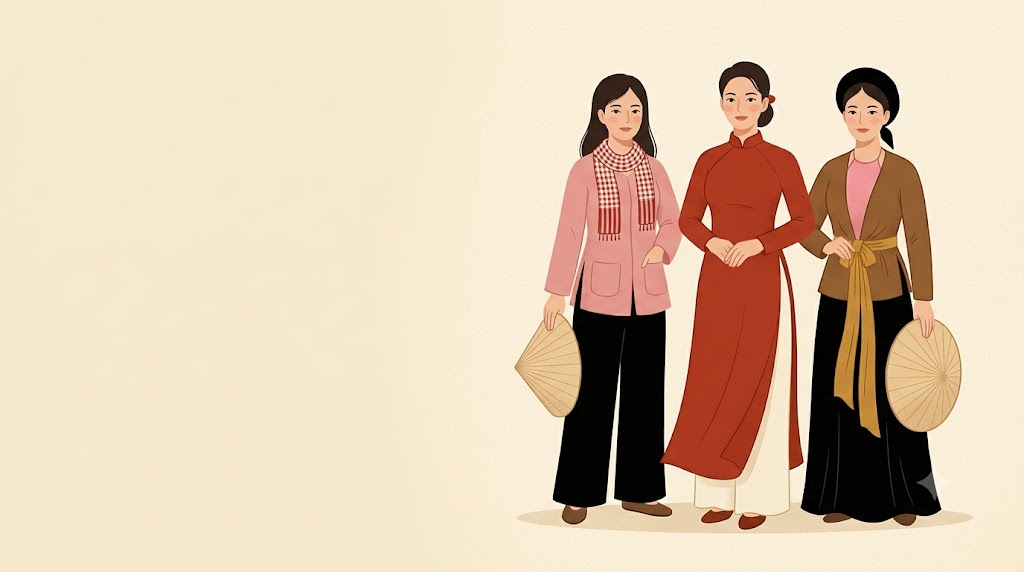
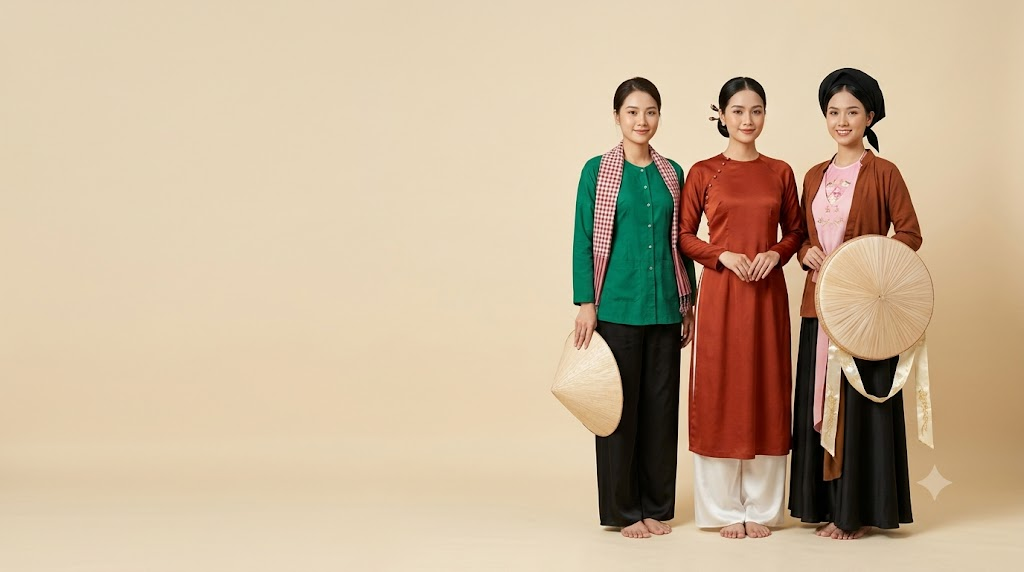
Hoan thien feature phoi-do

diff --git a/components/phoi-do/GioiThieuVanHoa.tsx b/components/phoi-do/GioiThieuVanHoa.tsx
@@ -1,0 +1,142 @@
+'use client';
+
+import { useEffect, useState } from 'react';
+
+interface MucNoiDung {
+  id: string;
+  tieuDe: string;
+  noiDung: string;
+  nguonThamKhao: string | null;
+}
+
+interface Props {
+  trangPhucId: string;
+  tenTrangPhuc: string;
+  vungMien?: string | null;
+}
+
+/** Ảnh minh hoạ từng trang phục, đặt trong public/images/trang-phuc/ (xem phần 3). */
+const ANH_TRANG_PHUC: Record<string, string> = {
+  'Áo dài': '/images/trang-phuc/ao-dai.jpg',
+  'Áo tứ thân': '/images/trang-phuc/ao-tu-than.jpg',
+  'Áo bà ba': '/images/trang-phuc/ao-ba-ba.jpg',
+};
+
+/** Bộ nhớ tạm: đã tải của trang phục nào thì không gọi lại. */
+const boNho = new Map<string, MucNoiDung[]>();
+
+/** Thứ tự hiển thị: Nguồn gốc → đặc điểm/cấu tạo → ý nghĩa. */
+function thuTu(tieuDe: string): number {
+  const t = tieuDe.normalize('NFC').toLowerCase();
+  if (t.includes('nguồn gốc')) return 0;
+  if (t.includes('ý nghĩa')) return 2;
+  return 1;
+}
+
+export default function GioiThieuVanHoa({ trangPhucId, tenTrangPhuc, vungMien }: Props) {
+  const [, veLai] = useState(0);
+  const [loiId, setLoiId] = useState<string | null>(null);
+  // undefined = mặc định mở mục đầu; null = đóng hết; chuỗi = id mục đang mở.
+  const [moId, setMoId] = useState<string | null | undefined>(undefined);
+  const [anhLoi, setAnhLoi] = useState(false);
+
+  const danhSach = boNho.get(trangPhucId) ?? null;
+
+  useEffect(() => {
+    if (boNho.has(trangPhucId)) return;
+    let huy = false;
+
+    fetch(`/api/noi-dung-van-hoa?trangPhucId=${encodeURIComponent(trangPhucId)}`)
+      .then(async (res) => {
+        const body = await res.json();
+        if (!res.ok) throw new Error(body.error ?? `Lỗi ${res.status}`);
+        return body.data as MucNoiDung[];
+      })
+      .then((ds) => {
+        boNho.set(
+          trangPhucId,
+          [...ds].sort((a, b) => thuTu(a.tieuDe) - thuTu(b.tieuDe)),
+        );
+        if (!huy) veLai((n) => n + 1);
+      })
+      .catch(() => {
+        if (!huy) setLoiId(trangPhucId);
+      });
+
+    return () => {
+      huy = true;
+    };
+  }, [trangPhucId]);
+
+  const anh = ANH_TRANG_PHUC[tenTrangPhuc.normalize('NFC').trim()];
+  const dangMo = moId === undefined ? (danhSach?.[0]?.id ?? null) : moId;
+
+  return (
+    <section className="overflow-hidden rounded-md border border-ink-soft/15 bg-paper-raised" aria-live="polite">
+      {anh && !anhLoi && (
+        // eslint-disable-next-line @next/next/no-img-element
+        <img
+          src={anh}
+          alt={`Hình minh hoạ ${tenTrangPhuc}`}
+          onError={() => setAnhLoi(true)}
+          className="h-64 w-full bg-paper object-contain"
+        />
+      )}
+
+      <div className="p-3">
+        <p className="text-[11px] uppercase tracking-wide text-ink-soft">
+          Tìm hiểu trang phục{vungMien ? ` · ${vungMien}` : ''}
+        </p>
+        <h3 className="font-display text-base font-semibold text-ink">{tenTrangPhuc}</h3>
+
+        <div className="mt-2">
+          {danhSach ? (
+            danhSach.length === 0 ? (
+              <p className="text-xs text-ink-soft">Chưa có nội dung văn hoá cho trang phục này.</p>
+            ) : (
+              danhSach.map((m) => {
+                const mo = dangMo === m.id;
+                return (
+                  <div key={m.id} className="border-t border-ink-soft/15 first:border-t-0">
+                    <button
+                      type="button"
+                      aria-expanded={mo}
+                      onClick={() => setMoId(mo ? null : m.id)}
+                      className="flex w-full items-center justify-between gap-2 py-2 text-left text-sm font-medium text-ink"
+                    >
+                      {m.tieuDe}
+                      <span
+                        aria-hidden
+                        className={`text-ink-soft transition-transform ${mo ? 'rotate-180' : ''}`}
+                      >
+                        ▾
+                      </span>
+                    </button>
+                    {mo && (
+                      <div className="pb-3">
+                        <p className="text-[13px] leading-relaxed text-ink">{m.noiDung}</p>
+                        {m.nguonThamKhao && (
+                          <p className="mt-2 text-[11px] italic text-ink-soft">Nguồn: {m.nguonThamKhao}</p>
+                        )}
+                      </div>
+                    )}
+                  </div>
+                );
+              })
+            )
+          ) : loiId === trangPhucId ? (
+            <p className="text-xs text-lacquer">
+              Chưa tải được nội dung văn hoá lúc này. Hãy thử chọn lại trang phục.
+            </p>
+          ) : (
+            <div className="space-y-2 py-1" aria-label="Đang tải">
+              <div className="h-3 w-3/4 animate-pulse rounded bg-ink/10" />
+              <div className="h-3 w-full animate-pulse rounded bg-ink/10" />
+              <div className="h-3 w-5/6 animate-pulse rounded bg-ink/10" />
+            </div>
+          )}
+        </div>
+      </div>
+    </section>
+  );
+}

diff --git a/components/phoi-do/ChonTrangPhuc.tsx b/components/phoi-do/ChonTrangPhuc.tsx
@@ -1,5 +1,6 @@
 'use client';
 
+import type { ReactNode } from 'react';
 import type { TrangPhuc, SuKien } from '@/types/phoi-do';
 
 interface Props {
@@ -8,8 +9,13 @@ interface Props {
   trangPhucDangChon: string | null;
   suKienDangChon: string | null;
   onChonTrangPhuc: (id: string) => void;
-  onChonSuKien: (id: string) => void;
+  /** Truyền null khi người dùng bấm lại dịp đang chọn để bỏ chọn. */
+  onChonSuKien: (id: string | null) => void;
+  /** Khối giới thiệu văn hoá, hiện ngay dưới các nút trang phục. */
+  phanGioiThieu?: ReactNode;
 }
+
+const TIEU_DE = 'font-display text-sm font-semibold text-ink-soft uppercase tracking-wide mb-3';
 
 export default function ChonTrangPhuc({
   danhSachTrangPhuc,
@@ -18,49 +24,58 @@ export default function ChonTrangPhuc({
   suKienDangChon,
   onChonTrangPhuc,
   onChonSuKien,
+  phanGioiThieu,
 }: Props) {
   return (
     <div className="space-y-6">
       <div>
-        <h3 className="font-display text-sm font-semibold text-ink-soft uppercase tracking-wide mb-3">
-          Trang phục
-        </h3>
-        <div className="grid grid-cols-3 gap-3">
-          {danhSachTrangPhuc.map((tp) => (
-            <button
-              key={tp.id}
-              onClick={() => onChonTrangPhuc(tp.id)}
-              className={`aspect-square rounded-md border-2 flex flex-col items-center justify-center text-center p-2 transition ${
-                trangPhucDangChon === tp.id
-                  ? 'border-lacquer bg-paper-raised'
-                  : 'border-transparent bg-paper-raised/50 hover:border-gold'
-              }`}
-            >
-              <span className="text-sm font-medium">{tp.ten}</span>
-              <span className="text-xs text-ink-soft mt-1">{tp.vungMien}</span>
-            </button>
-          ))}
+        <h3 className={TIEU_DE}>Trang phục</h3>
+        <div className="grid grid-cols-3 gap-2">
+          {danhSachTrangPhuc.map((tp) => {
+            const chon = trangPhucDangChon === tp.id;
+            return (
+              <button
+                key={tp.id}
+                type="button"
+                aria-pressed={chon}
+                onClick={() => onChonTrangPhuc(tp.id)}
+                className={`rounded-md border-2 px-2 py-3 text-center transition ${
+                  chon
+                    ? 'border-lacquer bg-paper-raised'
+                    : 'border-transparent bg-paper-raised/70 hover:border-gold'
+                }`}
+              >
+                <span className="block text-sm font-medium text-ink">{tp.ten}</span>
+                <span className="block text-xs text-ink-soft">{tp.vungMien}</span>
+              </button>
+            );
+          })}
         </div>
       </div>
 
+      {phanGioiThieu}
+
       <div>
-        <h3 className="font-display text-sm font-semibold text-ink-soft uppercase tracking-wide mb-3">
-          Dịp sử dụng
-        </h3>
+        <h3 className={TIEU_DE}>Dịp sử dụng</h3>
         <div className="flex flex-wrap gap-2">
-          {danhSachSuKien.map((sk) => (
-            <button
-              key={sk.id}
-              onClick={() => onChonSuKien(sk.id)}
-              className={`px-3 py-1.5 rounded-full text-sm border transition ${
-                suKienDangChon === sk.id
-                  ? 'bg-ink text-paper border-ink'
-                  : 'border-ink-soft/30 hover:border-gold'
-              }`}
-            >
-              {sk.ten}
-            </button>
-          ))}
+          {danhSachSuKien.map((sk) => {
+            const chon = suKienDangChon === sk.id;
+            return (
+              <button
+                key={sk.id}
+                type="button"
+                aria-pressed={chon}
+                onClick={() => onChonSuKien(chon ? null : sk.id)}
+                className={`rounded-full border px-3 py-1.5 text-sm transition ${
+                  chon
+                    ? 'border-lacquer bg-lacquer/10 font-medium text-ink'
+                    : 'border-ink-soft/30 hover:border-gold'
+                }`}
+              >
+                {sk.ten}
+              </button>
+            );
+          })}
         </div>
       </div>
     </div>

diff --git a/components/phoi-do/ThuNghiemPhoiDoClient.tsx b/components/phoi-do/ThuNghiemPhoiDoClient.tsx
@@ -13,6 +13,7 @@ import { layBoMau, chuanHoaTen } from '@/lib/mauTheoTrangPhuc';
 import { layPhuKienChoPhep, layNhomCuaPhuKien } from '@/lib/phuKienTheoTrangPhuc';
 import { useDanhMuc } from '@/hooks/useDanhMuc';
 import type { KetQuaKiemTra, SuKien, ToHopAI } from '@/types/phoi-do';
+import GioiThieuVanHoa from './GioiThieuVanHoa';
 
 /** Đọc danh sách phụ kiện từ URL: ưu tiên `phuKienIds=a,b`, nếu không có thì dùng `phuKienId=a` (bản cũ). */
 function docPhuKienTuUrl(params: URLSearchParams): string[] {
@@ -358,13 +359,23 @@ export default function ThuNghiemPhoiDoClient() {
       <div className="grid grid-cols-1 lg:grid-cols-[280px_minmax(0,1fr)_300px] lg:grid-rows-[minmax(0,1fr)] gap-6 lg:flex-1 lg:min-h-0">
         {/* Cột trái: Chọn trang phục & bối cảnh */}
         <aside className="space-y-8 lg:min-h-0 lg:overflow-y-auto p-1">
-          <ChonTrangPhuc
+            <ChonTrangPhuc
             danhSachTrangPhuc={danhMuc.trangPhuc}
             danhSachSuKien={danhMuc.suKien}
             trangPhucDangChon={trangPhucId}
             suKienDangChon={suKienId}
             onChonTrangPhuc={xuLyChonTrangPhuc}
             onChonSuKien={boc(setSuKienId)}
+            phanGioiThieu={
+              trangPhucDangChon ? (
+                <GioiThieuVanHoa
+                  key={trangPhucDangChon.id}
+                  trangPhucId={trangPhucDangChon.id}
+                  tenTrangPhuc={trangPhucDangChon.ten}
+                  vungMien={trangPhucDangChon.vungMien}
+                />
+              ) : null
+            }
           />
         </aside>
 

diff --git a/app/api/noi-dung-van-hoa/route.ts b/app/api/noi-dung-van-hoa/route.ts
@@ -1,0 +1,28 @@
+import { NextRequest, NextResponse } from "next/server";
+import prisma from "@/lib/prisma";
+
+/**
+ * GET /api/noi-dung-van-hoa?trangPhucId=...
+ * Trả nội dung văn hoá (tiêu đề, nội dung, nguồn tham khảo) của một trang phục.
+ * Response 200: { data: [{ id, tieuDe, noiDung, nguonThamKhao }], total }
+ */
+export async function GET(request: NextRequest) {
+  const trangPhucId = new URL(request.url).searchParams.get("trangPhucId");
+  if (!trangPhucId) {
+    return NextResponse.json({ error: "Thiếu trangPhucId." }, { status: 400 });
+  }
+
+  try {
+    const data = await prisma.noiDungVanHoa.findMany({
+      where: { trangPhucId },
+      select: { id: true, tieuDe: true, noiDung: true, nguonThamKhao: true },
+    });
+    return NextResponse.json(
+      { data, total: data.length },
+      { headers: { "Cache-Control": "public, s-maxage=300, stale-while-revalidate=600" } },
+    );
+  } catch (error) {
+    console.error("[GET /api/noi-dung-van-hoa]", error);
+    return NextResponse.json({ error: "Không tải được nội dung văn hoá." }, { status: 500 });
+  }
+}
